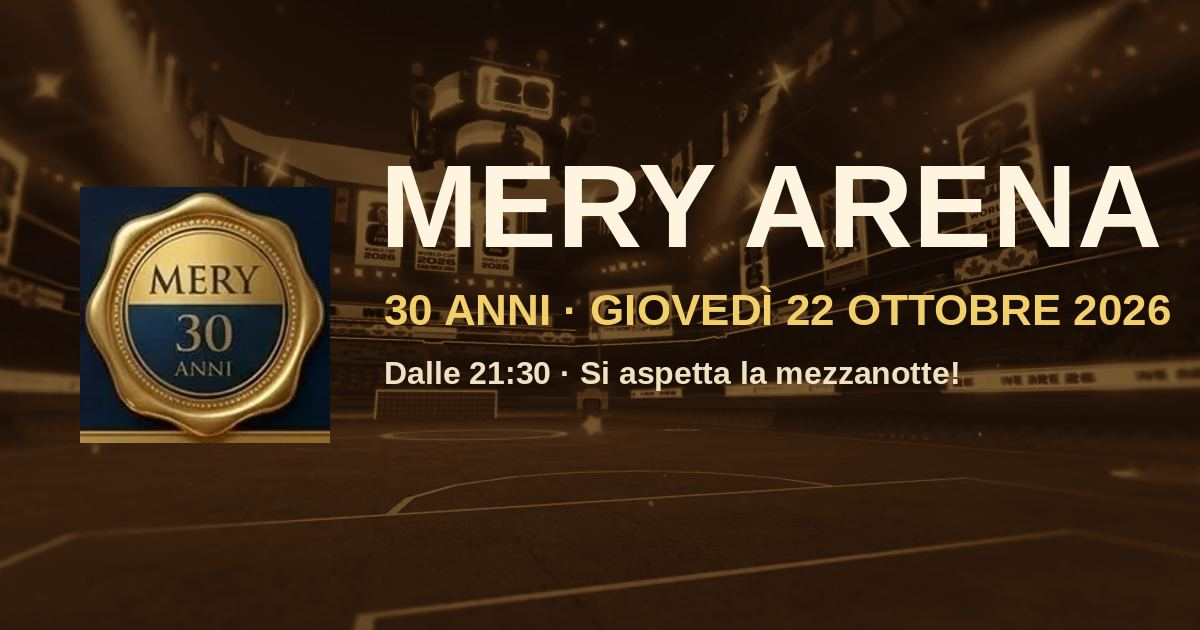
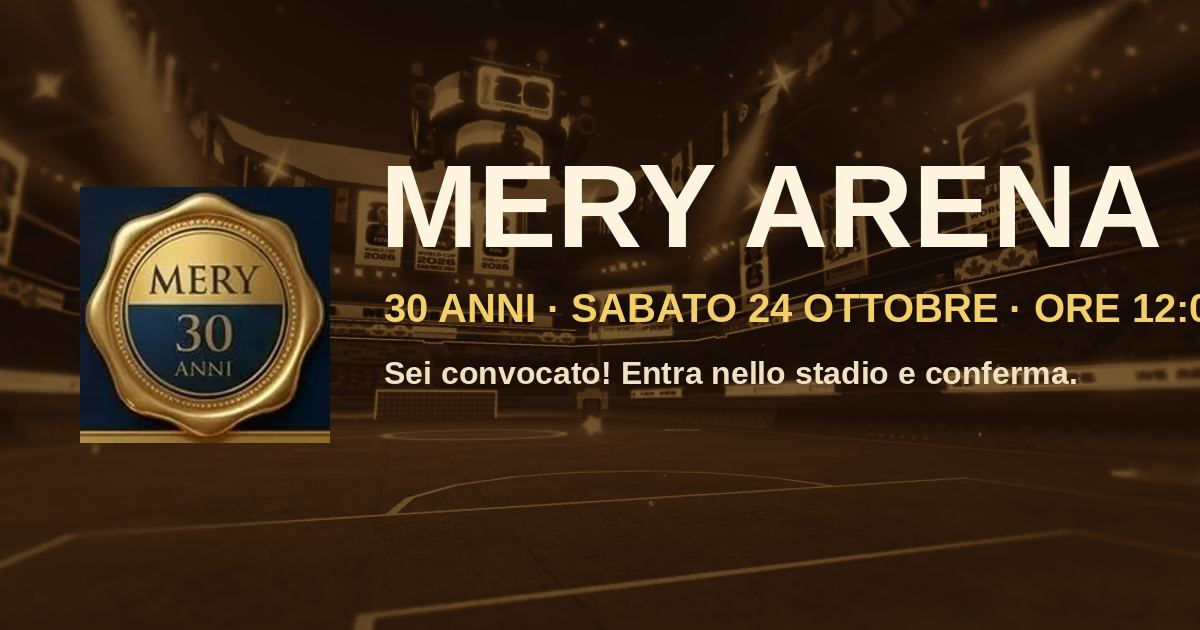
chore: sposta evento a sabato 24/10/2026 ore 12:00
Claude-Session: https://claude.ai/code/session_01WTmovmAY2YMgnsWyYzeM1T

Changed region(s): [[0.3083, 0.4524, 1.0, 0.5127], [0.3083, 0.573, 0.8942, 0.6333]]

diff --git a/index.html b/index.html
@@ -8,7 +8,7 @@
 <meta name="description" content="Sei convocato! Entra nello stadio, segna i rigori e conferma la presenza ai 30 anni di Mery.">
 <meta property="og:type" content="website">
 <meta property="og:title" content="MERY ARENA – Sei convocato ai 30 anni di Mery!">
-<meta property="og:description" content="Serata Champions: entra nello stadio, tira i rigori e conferma la presenza.">
+<meta property="og:description" content="Festa Champions: entra nello stadio, tira i rigori e conferma la presenza.">
 <meta property="og:image" content="https://deltaquadro94.github.io/compleannomery/assets/og.jpg">
 <meta property="og:image:width" content="1200">
 <meta property="og:image:height" content="630">
@@ -17,7 +17,7 @@
 <style>
 /* =============================================================
    MERY ARENA – stili
-   Concetto: diretta TV serale. Blu notte + oro Champions + rosso LIVE.
+   Concetto: diretta TV allo stadio. Marrone cioccolato + oro Champions + rosso LIVE.
    ============================================================= */
 :root{
   --navy:#1a0e07; --navy2:#2b170b; --blue:#8a5a24; --azure:#c58a3a; --cyan:#f0d9a6;
@@ -369,7 +369,7 @@ textarea.in-txt{min-height:92px;resize:none}
 .sub a{color:var(--cyan)}
 
 
-/* ---------- mezzanotte, posti, +1, classifica ---------- */
+/* ---------- nota compleanno, posti, +1, classifica ---------- */
 .tk-mid{font-size:12.5px;font-weight:700;text-align:center;background:rgba(42,28,0,.14);border-radius:8px;padding:5px 8px;line-height:1.25}
 .seatpick{display:flex;align-items:center;gap:12px;justify-content:center}
 .seatpick .num{font-family:var(--f-disp);font-weight:800;font-size:46px;color:var(--gold);min-width:64px;text-align:center;font-variant-numeric:tabular-nums}
@@ -450,9 +450,9 @@ textarea.in-txt{min-height:92px;resize:none}
     <section class="phase active" id="p0" aria-label="Ingresso allo stadio">
       <div class="tunnel" aria-hidden="true"><i></i><i></i><i></i><i></i><i></i></div>
       <div class="p0-copy">
-        <p class="kicker">Diretta · Serata Champions</p>
+        <p class="kicker">Diretta · Festa Champions</p>
         <h1 class="logo"><span class="t1">Mery</span><span class="t2">Arena</span></h1>
-        <p class="hello" id="hello">Stasera si festeggiano <b>30 anni</b>.</p>
+        <p class="hello" id="hello">Si festeggiano <b>30 anni</b>.</p>
         <button class="btn pulse" id="btnEnter" type="button">Entra nello stadio</button>
         <p class="hint">🔊 Tocca per attivare l'audio (puoi toglierlo col tasto in alto)</p>
       </div>
@@ -468,7 +468,7 @@ textarea.in-txt{min-height:92px;resize:none}
             <div class="tk-ucl">Golden Ticket · Mery Arena</div>
             <div class="tk-title" id="tkTitle">Mery – 30° compleanno party</div>
             <div class="tk-when" id="tkWhen"></div>
-            <div class="tk-mid" id="tkMid"></div>
+            <div class="tk-mid" id="tkNota"></div>
             <div class="tk-guest"><label for="guestName">Ospite</label><input id="guestName" type="text" maxlength="30" autocomplete="given-name" autocapitalize="words" placeholder="Il tuo nome"></div>
             <div class="tk-grid">
               <div><span>Settore</span><b>MERY</b></div>
@@ -537,7 +537,7 @@ textarea.in-txt{min-height:92px;resize:none}
               <h3 id="rvLuogo"></h3>
               <p id="rvAddr"></p>
               <div class="when" id="rvData"></div>
-              <p class="mid" id="rvMid"></p>
+              <p class="mid" id="rvNota"></p>
             </div>
             <canvas id="foil" aria-label="Gratta con il dito per scoprire il luogo"></canvas>
           </div>
@@ -604,7 +604,7 @@ textarea.in-txt{min-height:92px;resize:none}
               <div class="bk-r"><b>Dove</b><span id="bkWhere"></span></div>
               <div class="bk-r"><b>Dress code</b><span id="bkDress"></span></div>
               <div class="bk-r"><b>Programma</b><span id="bkProg"></span></div>
-              <div class="bk-r"><b>Mezzanotte</b><span id="bkMid"></span></div>
+              <div class="bk-r"><b>Compleanno</b><span id="bkNota"></span></div>
               <div class="holo"></div><div class="shine"></div>
             </div>
           </div></div>
@@ -617,7 +617,7 @@ textarea.in-txt{min-height:92px;resize:none}
           <div><span>Posto n°</span><b id="rcSeat">-</b></div>
           <div><span>Rigori (record)</span><b id="rcRig">-</b></div>
           <div><span>Riserva (+1)</span><b id="rcRis">-</b></div>
-          <div><span>Brindisi</span><b>Mezzanotte</b></div>
+          <div><span>Festa</span><b id="rcQuando">-</b></div>
         </div>
 
         <div class="cd glass" id="cd"><div class="lbl">Calcio d'inizio tra</div>
@@ -629,7 +629,7 @@ textarea.in-txt{min-height:92px;resize:none}
           <div><span>Dove</span><b id="dtWhere"></b></div>
           <div><span>Dress code</span><b id="dtDress"></b></div>
           <div><span>Programma</span><b id="dtProg"></b></div>
-          <div><span>Mezzanotte</span><b id="dtMid"></b></div>
+          <div><span>Compleanno</span><b id="dtNota"></b></div>
         </div>
 
         <div class="lbcard glass" id="lbCard" hidden>
@@ -668,7 +668,8 @@ var RM=!!(window.matchMedia&&matchMedia('(prefers-reduced-motion: reduce)').matc
 var rand=Math.random, clamp=function(v,a,b){return Math.max(a,Math.min(b,v))};
 var pick=function(a){return a[Math.floor(rand()*a.length)]};
 var pad=function(n){return String(n).padStart(2,'0')};
-var GIORNI=['domenica','lunedì','martedì','mercoledì','giovedì','venerdì','sabato'];
+var GIORNI=['domenica','lunedi','martedi','mercoledi','giovedi','venerdi','sabato'];
+var accenta=function(g){return g.replace(/^(lune|marte|mercole|giove|vener)di$/,'$1dì')};
 var MESI=['gennaio','febbraio','marzo','aprile','maggio','giugno','luglio','agosto','settembre','ottobre','novembre','dicembre'];
 var norm=function(s){return String(s||'').toLowerCase().normalize('NFD').replace(/[\u0300-\u036f]/g,'').trim()};
 var cap=function(s){return s.charAt(0).toUpperCase()+s.slice(1)};
@@ -682,7 +683,7 @@ function guard(){
   if(isNaN(t)||t.getUTCMonth()!==d.mese-1||t.getUTCDate()!==d.giorno) return 'La data '+d.giorno+'/'+d.mese+'/'+d.anno+' non esiste.';
   var real=GIORNI[t.getUTCDay()];
   if(norm(real)!==norm(d.giornoSettimana))
-    return 'In config.js il '+d.giorno+'/'+d.mese+'/'+d.anno+' è indicato come «'+d.giornoSettimana+'», ma nel calendario è '+real+'. Correggi il giorno della settimana o la data.';
+    return 'In config.js il '+d.giorno+'/'+d.mese+'/'+d.anno+' è indicato come «'+d.giornoSettimana+'», ma nel calendario è '+accenta(real)+'. Correggi il giorno della settimana o la data.';
   if(!/^\d{1,2}:\d{2}$/.test(d.oraInizio||'')) return 'oraInizio deve essere nel formato HH:MM.';
   if(d.oraFine&&!/^\d{1,2}:\d{2}$/.test(d.oraFine)) return 'oraFine deve essere vuota oppure nel formato HH:MM.';
   return '';
@@ -695,9 +696,9 @@ var C=window.CONFIG, D=C.data, L=C.luogo||{}, FG=C.figurina||{}, TX=C.telecronac
 var hh=+D.oraInizio.split(':')[0], mm=+D.oraInizio.split(':')[1];
 var dataLunga=cap(D.giornoSettimana)+' '+D.giorno+' '+MESI[D.mese-1]+' '+D.anno;
 var dataBreve=cap(D.giornoSettimana)+' '+D.giorno+' '+MESI[D.mese-1];
-var oraTxt=D.oraFine?('dalle '+D.oraInizio+' alle '+D.oraFine):('dalle '+D.oraInizio+' in poi');
+var oraTxt=D.oraFine?('dalle '+D.oraInizio+' alle '+D.oraFine):('ore\u00a0'+D.oraInizio);
 var luogoNome=L.nome||'';
-var NOTA=C.notaMezzanotte||'';
+var NOTA=C.notaCompleanno||'';
 var luogoRiga=[L.nome,L.indirizzo,L.citta].filter(Boolean).join(', ');
 var mapsHref=L.mapsUrl||('https://www.google.com/maps/search/?api=1&query='+encodeURIComponent([L.nome,L.indirizzo,L.citta].filter(Boolean).join(' ')));
 function romeOffsetMin(y,m,d){ // CEST (+120) dall'ultima domenica di marzo a quella di ottobre, altrimenti CET (+60)
@@ -934,7 +935,7 @@ function setHype(v){
 }
 
 /* ---------- FASE 0 ---------- */
-$('#hello').innerHTML=S.nome?('Ciao <b></b>, sei convocato per i <b>30 anni</b> di Mery.'):'Stasera si festeggiano <b>30 anni</b>.';
+$('#hello').innerHTML=S.nome?('Ciao <b></b>, sei convocato per i <b>30 anni</b> di Mery.'):'Si festeggiano <b>30 anni</b>.';
 if(S.nome){var hb=$$('#hello b');hb[0].textContent=S.nome}
 $('#btnEnter').addEventListener('click',function(){
   var btn=this;btn.disabled=true;
@@ -1008,8 +1009,8 @@ function renderLb(ol,list,limit){
 
 /* ---------- FASE 1: biglietto ---------- */
 var guest=$('#guestName');
-$('#tkWhen').textContent=dataBreve+' · ore '+D.oraInizio+' in poi';
-$('#tkMid').textContent=NOTA;$('#tkMid').hidden=!NOTA;
+$('#tkWhen').textContent=dataLunga+' · '+oraTxt;
+$('#tkNota').textContent=NOTA;$('#tkNota').hidden=!NOTA;
 $('#tkTitle').textContent=(C.festeggiata||'Mery')+' – '+(C.eta||30)+'° compleanno party';
 function genCode(){
   var al='ABCDEFGHJKMNPQRSTUVWXYZ23456789',a=new Uint8Array(8);
@@ -1292,8 +1293,8 @@ var Shoot=(function(){
 /* ---------- FASE 3: gratta e vinci ---------- */
 $('#rvLuogo').textContent=luogoNome;
 $('#rvAddr').textContent=[L.indirizzo,L.citta].filter(Boolean).join(' · ');
-$('#rvData').textContent=dataBreve+' · '+oraTxt;
-$('#rvMid').textContent=NOTA;$('#rvMid').hidden=!NOTA;
+$('#rvData').textContent=dataLunga+' · '+oraTxt;
+$('#rvNota').textContent=NOTA;$('#rvNota').hidden=!NOTA;
 var Scratch=(function(){
   var cv=$('#foil'),ctx=cv.getContext('2d',{willReadFrequently:true}),box=$('#scratchBox'),w=0,h=0,dpr=1,drawing=false,lp=null,done=false,lastChk=0,lastFb=0;
   function paint(){
@@ -1452,7 +1453,7 @@ function buildIcs(){
     'DTSTART;TZID=Europe/Rome:'+st,'DTEND;TZID=Europe/Rome:'+en,
     'SUMMARY:'+esc((C.festeggiata||'Mery')+' – '+(C.eta||30)+'° compleanno (Mery Arena)'),
     'LOCATION:'+esc(luogoRiga),'DESCRIPTION:'+esc(desc),
-    'BEGIN:VALARM','TRIGGER:-PT3H','ACTION:DISPLAY','DESCRIPTION:Stasera si va allo stadio!','END:VALARM',
+    'BEGIN:VALARM','TRIGGER:-PT3H','ACTION:DISPLAY','DESCRIPTION:Oggi si va allo stadio: calcio d\'inizio alle '+D.oraInizio+'!','END:VALARM',
     'END:VEVENT','END:VCALENDAR'].join('\r\n');
 }
 function downloadIcs(){
@@ -1497,8 +1498,8 @@ function countUp(){
   if(FG.foto)$('#frPhoto').src=FG.foto;
   var h='';(FG.stats||[]).forEach(function(s){h+='<div><b>0</b><span></span></div>'});
   var st=$('#frStats');st.innerHTML=h;$$('#frStats span').forEach(function(sp,i){sp.textContent=FG.stats[i].sigla});
-  $('#bkWhen').textContent=dataLunga+' · '+oraTxt;$('#bkWhere').textContent=luogoRiga;$('#bkDress').textContent=C.dressCode||'';$('#bkProg').textContent=C.programma||'';$('#bkMid').textContent=NOTA;
-  $('#dtWhen').textContent=dataLunga+' · '+oraTxt;$('#dtWhere').textContent=luogoRiga;$('#dtDress').textContent=C.dressCode||'';$('#dtProg').textContent=C.programma||'';$('#dtMid').textContent=NOTA;
+  $('#bkWhen').textContent=dataLunga+' · '+oraTxt;$('#bkWhere').textContent=luogoRiga;$('#bkDress').textContent=C.dressCode||'';$('#bkProg').textContent=C.programma||'';$('#bkNota').textContent=NOTA;
+  $('#dtWhen').textContent=dataLunga+' · '+oraTxt;$('#dtWhere').textContent=luogoRiga;$('#dtDress').textContent=C.dressCode||'';$('#dtProg').textContent=C.programma||'';$('#dtNota').textContent=NOTA;
   $('#btnMap').href=mapsHref;$('#lnkGcal').href=gcalHref();
 })();
 (function cardInteraction(){
@@ -1535,7 +1536,7 @@ var ENTER={
   4:function(){revealTimeline()},
   5:function(){rsvpName.value=S.nome},
   6:function(){
-    $('#rcNome').textContent=S.nome||'-';$('#rcPres').textContent=PRES[S.presenza]||'-';$('#rcSeat').textContent=S.posto;$('#rcRig').textContent=S.best+'/'+TOT;
+    $('#rcNome').textContent=S.nome||'-';$('#rcPres').textContent=PRES[S.presenza]||'-';$('#rcSeat').textContent=S.posto;$('#rcRig').textContent=S.best+'/'+TOT;$('#rcQuando').textContent=cap(D.giornoSettimana)+' '+D.giorno+' · '+D.oraInizio;
     $('#rcRis').textContent=S.riserva?(S.riservaNome||'Sì'):'No';
     $('#frName').textContent=C.festeggiata||'Mery';$('#btnWa').href=waHref();$('#btnWa').hidden=!waNumber(); // bottone nascosto finché non c'è il numero in config.js
     countUp();tickCd();clearInterval(cdTimer);cdTimer=setInterval(tickCd,1000);

diff --git a/config.js b/config.js
@@ -15,18 +15,18 @@ window.CONFIG = {
      si blocca con un messaggio d'errore (guard-rail) invece di mostrare date sbagliate.
      giorno/mese/anno sono numeri (mese 1-12). Orari in formato "HH:MM" (ora italiana). */
   data: {
-    giornoSettimana: "giovedì",
-    giorno: 22,
+    giornoSettimana: "sabato",
+    giorno: 24,
     mese: 10,
     anno: 2026,
-    oraInizio: "21:30",
-    oraFine: "",          // lascia "" per "in poi" (nessuna fine fissata)
-    durataIcsOre: 4       // usata solo nel file calendario se oraFine è vuota (21:30 + 4h = 01:30)
+    oraInizio: "12:00",   // mezzogiorno esatto
+    oraFine: "",          // lascia "" se non c'è un orario di fine
+    durataIcsOre: 4       // usata solo nel file calendario se oraFine è vuota (12:00 + 4h = 16:00)
   },
 
-  /* ---------- MEZZANOTTE ----------
+  /* ---------- NOTA SUL COMPLEANNO ----------
      Frase mostrata su biglietto, dettagli, gratta-e-vinci, figurina e calendario. */
-  notaMezzanotte: "Si aspetta la mezzanotte: il compleanno scatta alle 00:00 del 23 ottobre! 🥂",
+  notaCompleanno: "Il compleanno di Mery è il 23 ottobre, ma festeggiamo insieme sabato 24 ottobre a mezzogiorno. 🥂",
 
   /* ---------- LUOGO ---------- */
   luogo: {
@@ -52,7 +52,7 @@ window.CONFIG = {
      "demo" = solo per anteprime: dati finti in memoria. */
   scriptUrl: "",
 
-  /* ---------- DETTAGLI SERATA ---------- */
+  /* ---------- DETTAGLI FESTA ---------- */
   dressCode: "Festivo & Casual",
   programma: "Calcio, amici e tanto cioccolato",
 
@@ -90,12 +90,12 @@ window.CONFIG = {
 
   /* ---------- TELECRONACA (ticker in basso) ---------- */
   telecronaca: {
-    benvenuto: "Benvenuti a Mery Arena: calcio d'inizio alle 21:30, ma il vero fischio è a mezzanotte, quando Mery compie 30 anni!",
+    benvenuto: "Benvenuti a Mery Arena: sabato a mezzogiorno si festeggiano i 30 anni di Mery!",
     inattivo: [
       "Sugli spalti si respira aria di festa grande.",
       "Il pubblico è carico: manca solo la festeggiata al centro del campo.",
       "Dalla regia: cioccolato in abbondanza, previsto in area di rigore.",
-      "Clima perfetto per una serata da Champions."
+      "Clima perfetto per una festa da Champions."
     ],
     gol: ["GOOOL! Che rigore, Mery sarebbe fiera!", "Rete! Il portiere resta a guardare.", "Palla in rete, esplode lo stadio!"],
     parata: ["Parata! Il portiere ci arriva con la punta dei guanti.", "Para tutto: che riflessi!", "Niente da fare, il portiere ha letto il tiro."],

diff --git a/ELIMINA.md b/ELIMINA.md
@@ -1,8 +1,8 @@
 # Eliminare il sito dopo la festa
 
-Dopo il 22 ottobre 2026 il sito e la repo (che contiene il numero WhatsApp per le conferme) vanno rimossi.
+Dopo la festa (sabato 24 ottobre 2026), da **domenica 25/10/2026**, il sito e la repo (che contiene il numero WhatsApp per le conferme) vanno rimossi.
 
-1. **Verifica che la festa sia passata** (giovedì 22 ottobre 2026) e di aver salvato eventuali conferme/messaggi che ti servono.
+1. **Verifica che la festa sia passata** (sabato 24 ottobre 2026) e di aver salvato eventuali conferme/messaggi che ti servono.
 2. Apri la repo su GitHub → **Settings**.
 3. Scorri fino a **Danger Zone** → **Delete this repository** → conferma digitando il nome della repo.
 4. **Verifica il 404:** apri il link del sito (o `curl -I https://deltaquadro94.github.io/compleannomery/`):

diff --git a/README.md b/README.md
@@ -2,6 +2,8 @@
 
 Sito 100% statico (`index.html` + `config.js` + `assets/`). Nessuna build, nessun CDN.
 
+**Evento:** sabato 24 ottobre 2026, ore 12:00 (Villa Giovanna, Ottaviano).
+
 ## Come si modifica
 Tutto si cambia in **`config.js`** (commenti in italiano):
 
